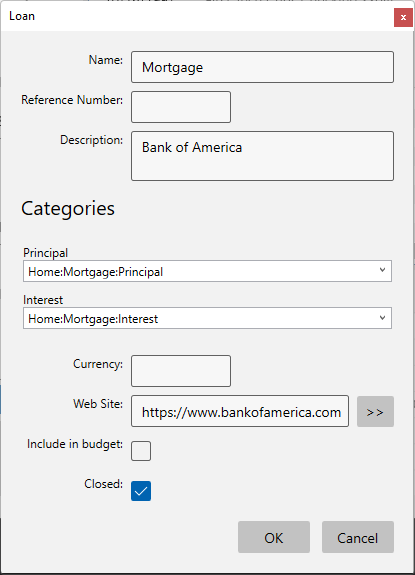
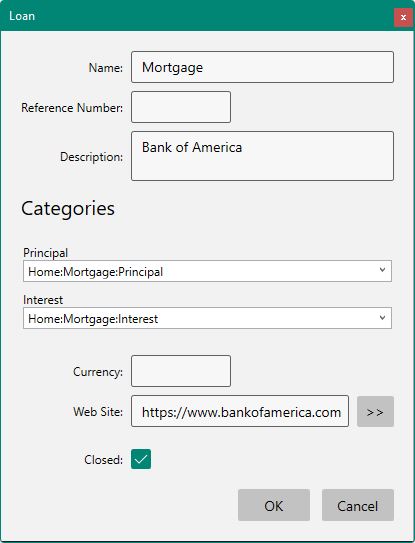
Add drill down on Credit card row in networth report. Fix some screen shots. Fix layout bugfs in Loan dialog.

diff --git a/Source/WPF/MyMoney/Dialogs/LoanDialog.xaml b/Source/WPF/MyMoney/Dialogs/LoanDialog.xaml
@@ -14,7 +14,14 @@
         WindowStartupLocation="CenterOwner" 
         WindowStyle="ToolWindow" 
         SizeToContent="WidthAndHeight">
-
+    <local:BaseDialog.Resources>
+        <Style x:Key="ComboBoxStretchStyle" TargetType="ComboBoxItem">
+            <Setter Property="HorizontalAlignment" Value="Stretch"/>
+        </Style>
+        <Style TargetType="TextBlock">
+            <Setter Property="VerticalAlignment" Value="Center"/>
+        </Style>
+    </local:BaseDialog.Resources>
     <StackPanel Margin="20,20,20,20">
         <Grid  HorizontalAlignment="Stretch" VerticalAlignment="Stretch">
             <Grid.ColumnDefinitions>

diff --git a/Source/WPF/MyMoney/Reports/NetWorthReport.cs b/Source/WPF/MyMoney/Reports/NetWorthReport.cs
@@ -149,10 +149,13 @@ namespace Walkabout.Reports
                     // liabilities are not included in the pie chart because that would be confusing.
                     balance = this.myMoney.GetCashBalanceNormalized(this.reportDate, (a) => a.Type == AccountType.Credit);
                     WriteHeader(writer, "Liabilities");
-                    totalBalance += balance;
 
+                    Predicate<Account> creditAccountFilter = (a) => a.Type == AccountType.Credit;
+                    balance = this.myMoney.GetCashBalanceNormalized(this.reportDate, creditAccountFilter);
+                    totalBalance += balance;
+                    var creditGroup = new AccountGroup() { Filter = creditAccountFilter, Date = this.reportDate, Title = "Credit Accounts" };
                     color = GetRandomColor();
-                    WriteRow(writer, color, "Credit", balance, null);
+                    WriteRow(writer, color, "Credit", balance, () => OnSelectCashGroup(creditGroup));
                     totalBalance += WriteLoanAccountRows(writer, data, color, true);
 
                     writer.StartFooterRow();
